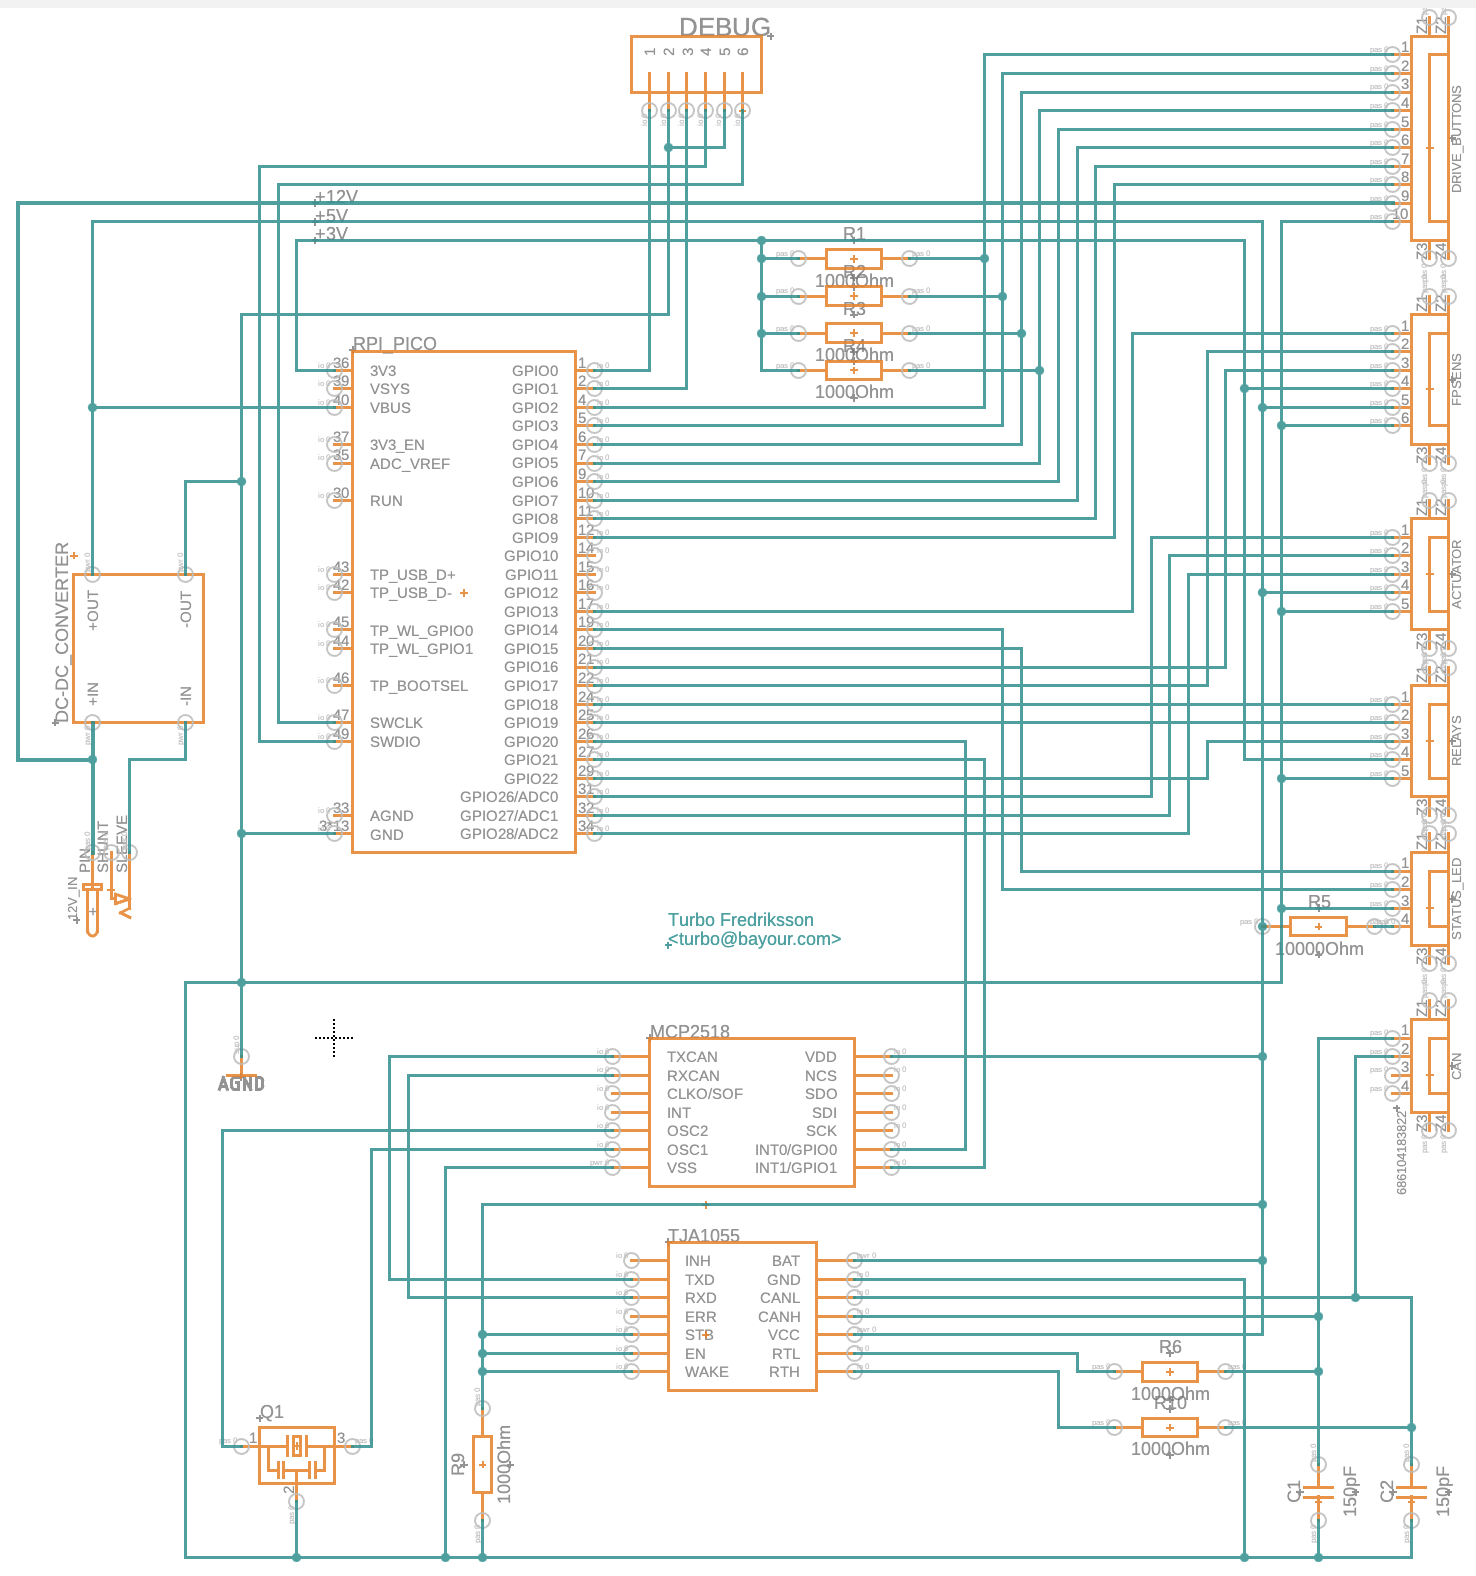
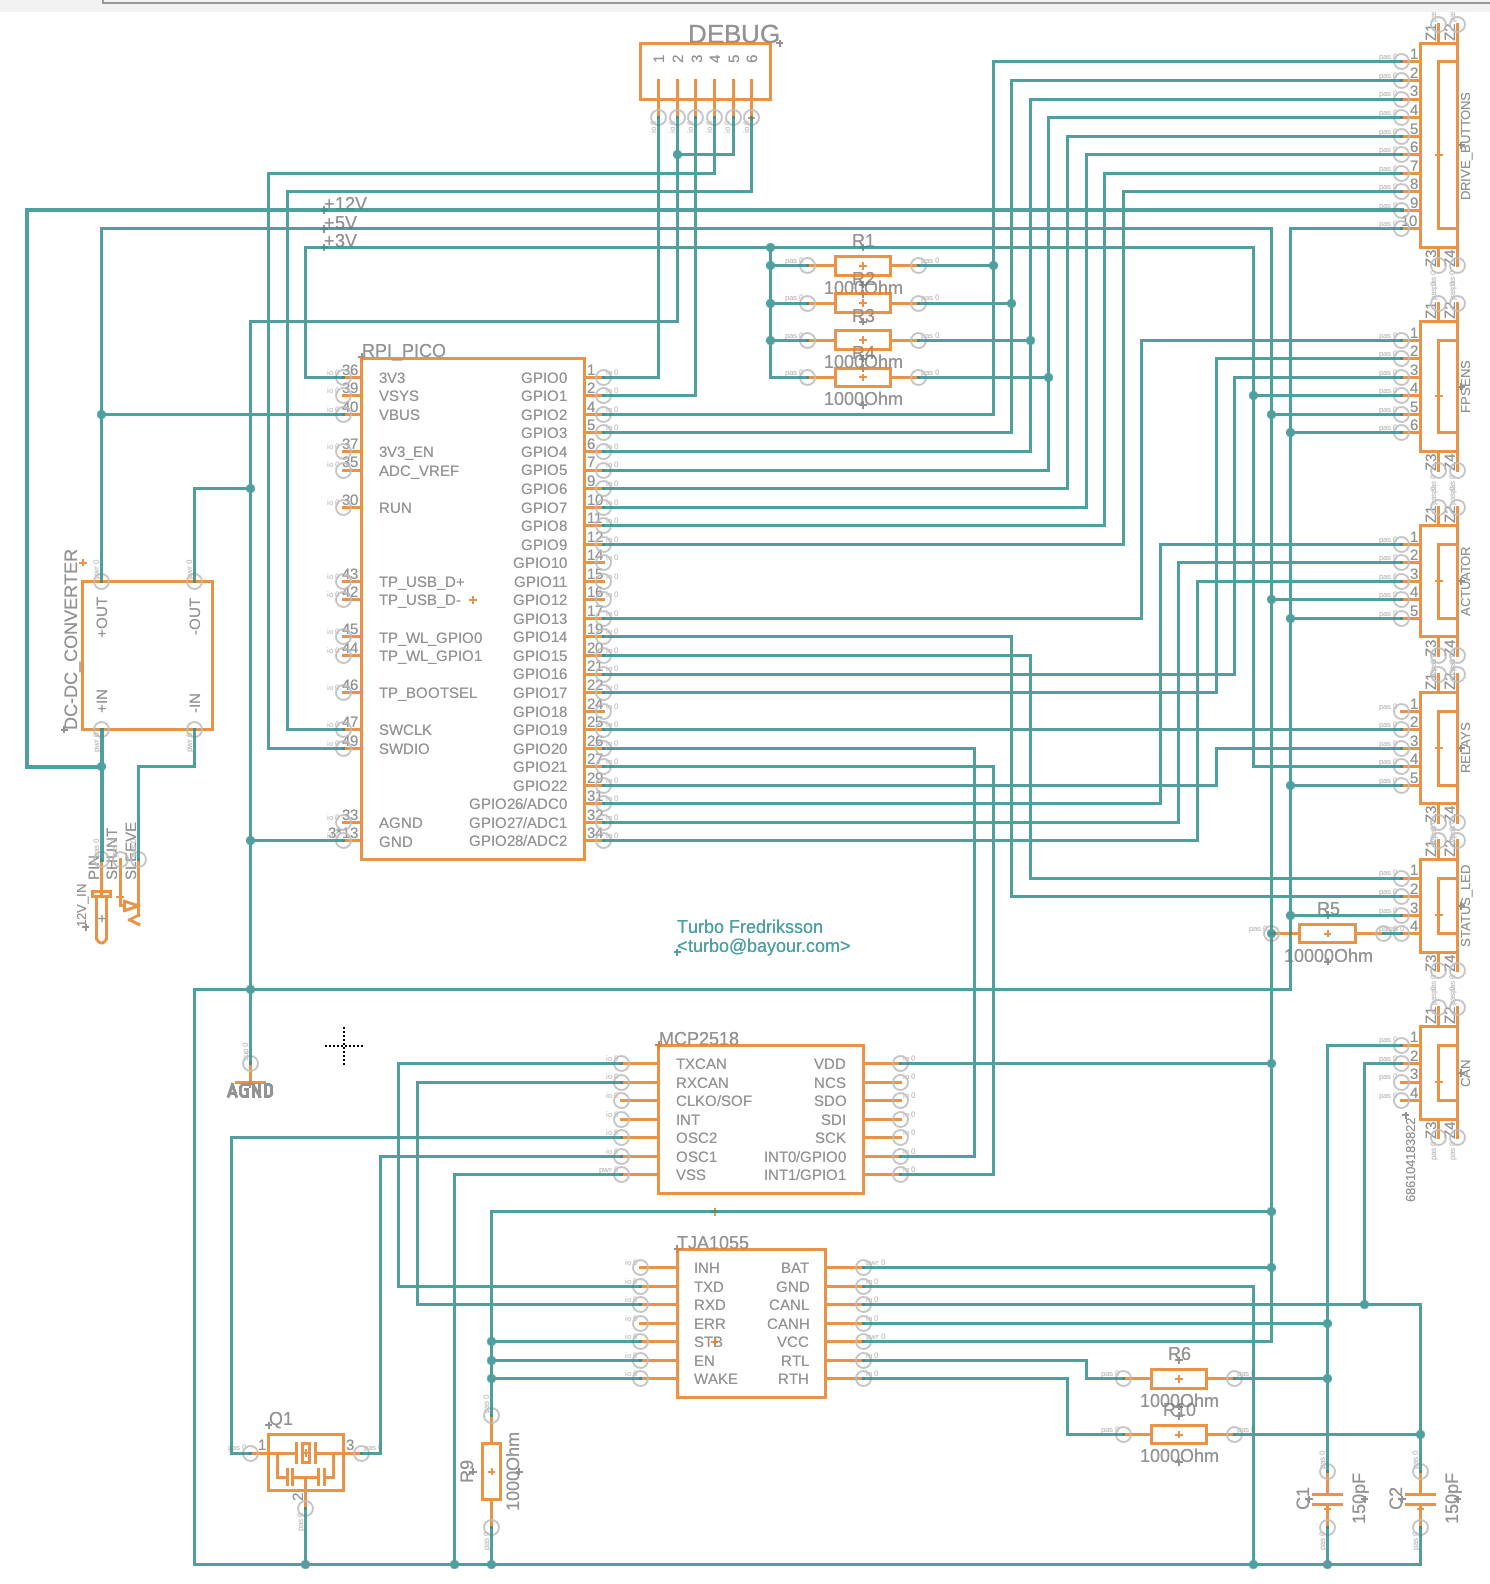
Remove the EIS/SteeringLock "relay".
Can't really cut the power to EIS that way. If there's no power to
it, it won't detect the key, and won't allow me to turn the power
to the device on! :).

Changed region(s): [[0.0, 0.0, 0.9973, 0.9949], [0.6545, 0.6218, 0.6856, 0.684]]

diff --git a/code/src/main.rs b/code/src/main.rs
@@ -78,7 +78,6 @@ async fn main(spawner: Spawner) {
 
     // =====
     // Initialize the MOSFET relays.
-    let mut eis_steering_lock   = Output::new(p.PIN_18, Level::Low);	// EIS/steering lock
     let mut eis_ignition_switch = Output::new(p.PIN_19, Level::Low);	// EIS/ignition switch
     let mut eis_start           = Output::new(p.PIN_22, Level::Low);	// EIS/start
     info!("Initialized the MOSFET relays");
@@ -209,9 +208,6 @@ async fn main(spawner: Spawner) {
 	}
 	_ => ()
     }
-
-    // Turn on the steering lock, allowing the key to be inserted.
-    eis_steering_lock.set_high();
 
     // Turn on the ignition switch.
     eis_ignition_switch.set_high();

diff --git a/README.md b/README.md
@@ -475,8 +475,10 @@ is then selected automatically.
 
 ### Update Sun 8 May 2024
 
-Update the circuit diagram and PCB with a home-made CAN bus adapter, because I can't use the over-the-shelf
-ones.
+* Update the circuit diagram and PCB with a home-made CAN bus adapter, because I can't use the over-the-shelf
+  ones.
+* Remove the EIS/SteeringLock "relay". Can't really cut the power to EIS that way. If there's no power to it,
+  it won't detect the key, and won't allow me to turn the power to the device on! :).
 
 # Additional information
 
